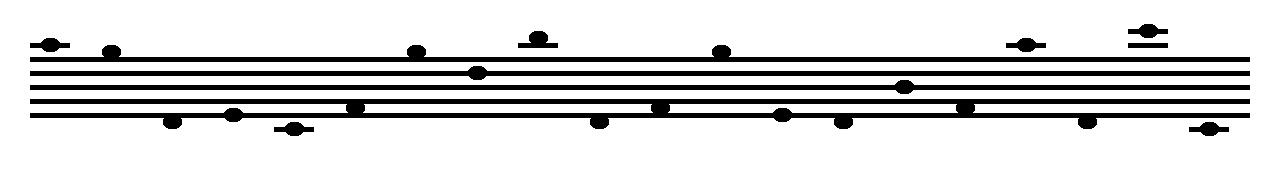
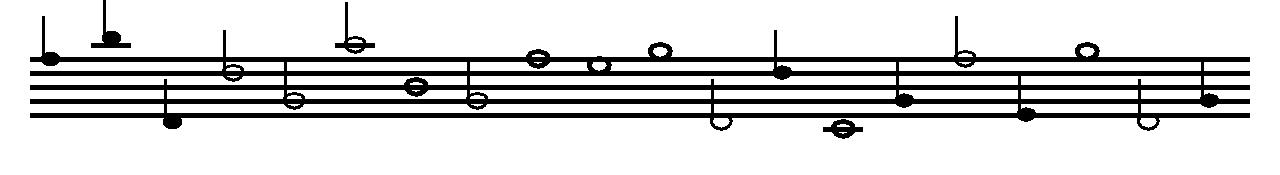
MusicNoteTypes added

diff --git a/IAEclipse/IA/src/musicSheetCreator/MusicNotesTypes.java b/IAEclipse/IA/src/musicSheetCreator/MusicNotesTypes.java
@@ -1,0 +1,75 @@
+package musicSheetCreator;
+
+import java.awt.BasicStroke;
+import java.awt.Graphics2D;
+import java.util.Random;
+
+public class MusicNotesTypes {
+	public static MusicNote generateRandomTypeNote(int posX, int posY) {
+		Random rn = new Random();
+		switch (rn.nextInt(3)) {
+			case 0:
+				return new WholeNote(posX, posY);
+			case 1:
+				return new HalfNote(posX, posY);
+			case 2:
+				return new QuarterNote(posX, posY);
+			default:
+				return new WholeNote(posX, posY);
+		}
+		
+	}
+}
+
+
+class WholeNote extends MusicNote {
+	private final static float DURATION = 1;
+	
+	public WholeNote(int posX, int posY) {
+		super(posX, posY, DURATION);
+	}
+	
+	public void paint(Graphics2D g2d, int[] linePositions, int lineHeight, int margin) {
+		super.paint(g2d, linePositions, lineHeight, margin);
+		g2d.setStroke(new BasicStroke(5f));
+		g2d.drawOval((this.getCenter().getX() - this.getWidth()/2)+margin,
+    			linePositions[this.getCenter().getY()]-this.getHeight()/2, this.getWidth(), this.getHeight());
+		
+	}
+}
+
+class HalfNote extends MusicNote {
+	private final static float DURATION = 1/2f;
+	
+	public HalfNote(int posX, int posY) {
+		super(posX, posY, DURATION);
+	}
+	
+	public void paint(Graphics2D g2d, int[] linePositions, int lineHeight, int margin) {
+		super.paint(g2d, linePositions, lineHeight, margin);
+		g2d.setStroke(new BasicStroke(3f));
+		int posXDraw = (this.getCenter().getX() - this.getWidth()/2)+margin;
+		int posYDraw = linePositions[this.getCenter().getY()]-this.getHeight()/2;
+		g2d.drawOval(posXDraw, posYDraw, this.getWidth(), this.getHeight());
+		
+		super.drawStick(g2d, posXDraw, posYDraw, 0);
+	}
+}
+
+class QuarterNote extends MusicNote {
+	private final static float DURATION = 1/4f;
+	
+	public QuarterNote(int posX, int posY) {
+		super(posX, posY, DURATION);
+	}
+	
+	public void paint(Graphics2D g2d, int[] linePositions, int lineHeight, int margin) {
+		super.paint(g2d, linePositions, lineHeight, margin);
+		int posXDraw = (this.getCenter().getX() - this.getWidth()/2)+margin;
+		int posYDraw = linePositions[this.getCenter().getY()]-this.getHeight()/2;
+		g2d.fillOval(posXDraw, posYDraw, this.getWidth(), this.getHeight());
+
+		super.drawStick(g2d, posXDraw, posYDraw, 2);
+	}
+	
+}

diff --git a/IAEclipse/IA/src/musicSheetCreator/MusicSheetCreator.java b/IAEclipse/IA/src/musicSheetCreator/MusicSheetCreator.java
@@ -34,7 +34,7 @@ public class MusicSheetCreator {
     private void generateNotes(int noteWidth, int noteHeight) {
     	Random rn = new Random();
     	for(int i=0; i < numNotes; i++) {
-    		notes[i] = new MusicNote((this.getSpaceBetweenNotesCenter())*i + noteWidth, rn.nextInt(linePositions.length));
+    		notes[i] = MusicNotesTypes.generateRandomTypeNote((this.getSpaceBetweenNotesCenter())*i + noteWidth, rn.nextInt(linePositions.length));
     		notes[i].setHeight(noteHeight);
     		notes[i].setWidth(noteWidth);
     		System.out.println(notes[i].getCenter().getY());
@@ -59,7 +59,7 @@ public class MusicSheetCreator {
 	private String getNotesText() {
 		String notesText = "";
 		for(int i = 0; i < notes.length; i++) {
-			notesText=notesText + String.format("%d-%d\n",i, notes[i].getCenter().getY());
+			notesText += String.format("%d-%s", i, notes[i]); 
 		}
 		return notesText;
 	}
@@ -85,32 +85,9 @@ public class MusicSheetCreator {
         }
         // create a circle with black
         for(int i = 0; i < notes.length; i++) {
-        	g2d.fillOval((notes[i].getCenter().getX() - notes[i].getWidth()/2)+margin,
-        			linePositions[notes[i].getCenter().getY()]-notes[i].getHeight()/2, notes[i].getWidth(), notes[i].getHeight());
-        	if(notes[i].getCenter().getY() < 3){
-        		
-        		for(int j = notes[i].getCenter().getY() ; j < 3 ; j++) {
-        			if(j % 2 == 0) {
-        				g2d.fillRect(notes[i].getCenter().getX()-notes[i].getWidth() + margin,
-                			linePositions[j]-1,
-                			notes[i].getWidth()*2, lineHeight+1);
-        			}
-        			
-        		}
-    			
-        	}else if(notes[i].getCenter().getY() > 13) {
-        		for(int j = notes[i].getCenter().getY() ; j > 13 ; j--) {
-        			if(j%2 == 0) {
-        				g2d.fillRect(notes[i].getCenter().getX()-notes[i].getWidth() + margin,
-            				linePositions[j]-1,
-            				notes[i].getWidth()*2, lineHeight+1);
-        			}
-        			
-        		}
-        	}
-    		
-    			
- 		
+        	
+        	
+        	notes[i].paint(g2d, linePositions, lineHeight, margin);
         }
         //System.out.println(i);
         

diff --git a/IAEclipse/IA/src/musicSheetCreator/MusicNote.java b/IAEclipse/IA/src/musicSheetCreator/MusicNote.java
@@ -1,7 +1,57 @@
 package musicSheetCreator;
 
-public class MusicNote extends Simbol {
-	public MusicNote(int posX, int posY) {
+import java.awt.Graphics2D;
+
+public abstract class MusicNote extends Simbol {
+	private float duration;
+	public MusicNote(int posX, int posY, float duration) {
 		super(posX, posY);
+		this.setDuration(duration);
+	}
+	
+	public void paint(Graphics2D g2d, int[] linePositions, int lineHeight, int margin) {
+		super.paint(g2d);
+		if(this.getCenter().getY() < 3){
+    		
+    		for(int j = this.getCenter().getY() ; j < 3 ; j++) {
+    			if(j % 2 == 0) {
+    				g2d.fillRect(this.getCenter().getX()-this.getWidth() + margin,
+            			linePositions[j]-1,
+            			this.getWidth()*2, lineHeight+1);
+    			}
+    			
+    		}
+			
+    	}else if(this.getCenter().getY() > 13) {
+    		for(int j = this.getCenter().getY() ; j > 13 ; j--) {
+    			if(j%2 == 0) {
+    				g2d.fillRect(this.getCenter().getX()-this.getWidth() + margin,
+        				linePositions[j]-1,
+        				this.getWidth()*2, lineHeight+1);
+    			}
+    			
+    		}
+    	}
+	}
+	
+	protected void drawStick(Graphics2D g2d, int posXDraw, int posYDraw, int offSetX) {
+		int heightStick = 40;
+		int widthStick = 3;
+		
+		g2d.fillRect(posXDraw+offSetX, posYDraw-heightStick+5, widthStick, heightStick);
+	}
+	
+	public float getDuration() {
+		return duration;
+	}
+
+	public void setDuration(float duration) {
+		this.duration = duration;
+	}
+	
+	@Override
+	public String toString() {
+		return String.format("%d-%.3f\n", this.getCenter().getY(), this.getDuration());
 	}
 }
+

diff --git a/IAEclipse/IA/src/musicSheetCreator/Simbol.java b/IAEclipse/IA/src/musicSheetCreator/Simbol.java
@@ -1,11 +1,17 @@
 package musicSheetCreator;
 
+import java.awt.Color;
+import java.awt.Graphics2D;
+
 public abstract class Simbol {
 	private VectorXY center;
 	private int width, height;
 	public Simbol(int x, int y) {
 		this.center = new VectorXY(x,y);
-		
+	}
+	
+	public void paint(Graphics2D g2d) {
+		g2d.setColor(Color.BLACK);
 	}
 	
 	public VectorXY getCenter() {
@@ -30,8 +36,13 @@ public abstract class Simbol {
 	public void setWidth(int width) {
 		this.width = width;
 	}
-	
-	
 
+	@Override
+	public String toString() {
+		return String.format("%d\n", this.getCenter().getY());
+	}
+	
+	
+	
 	
 }
